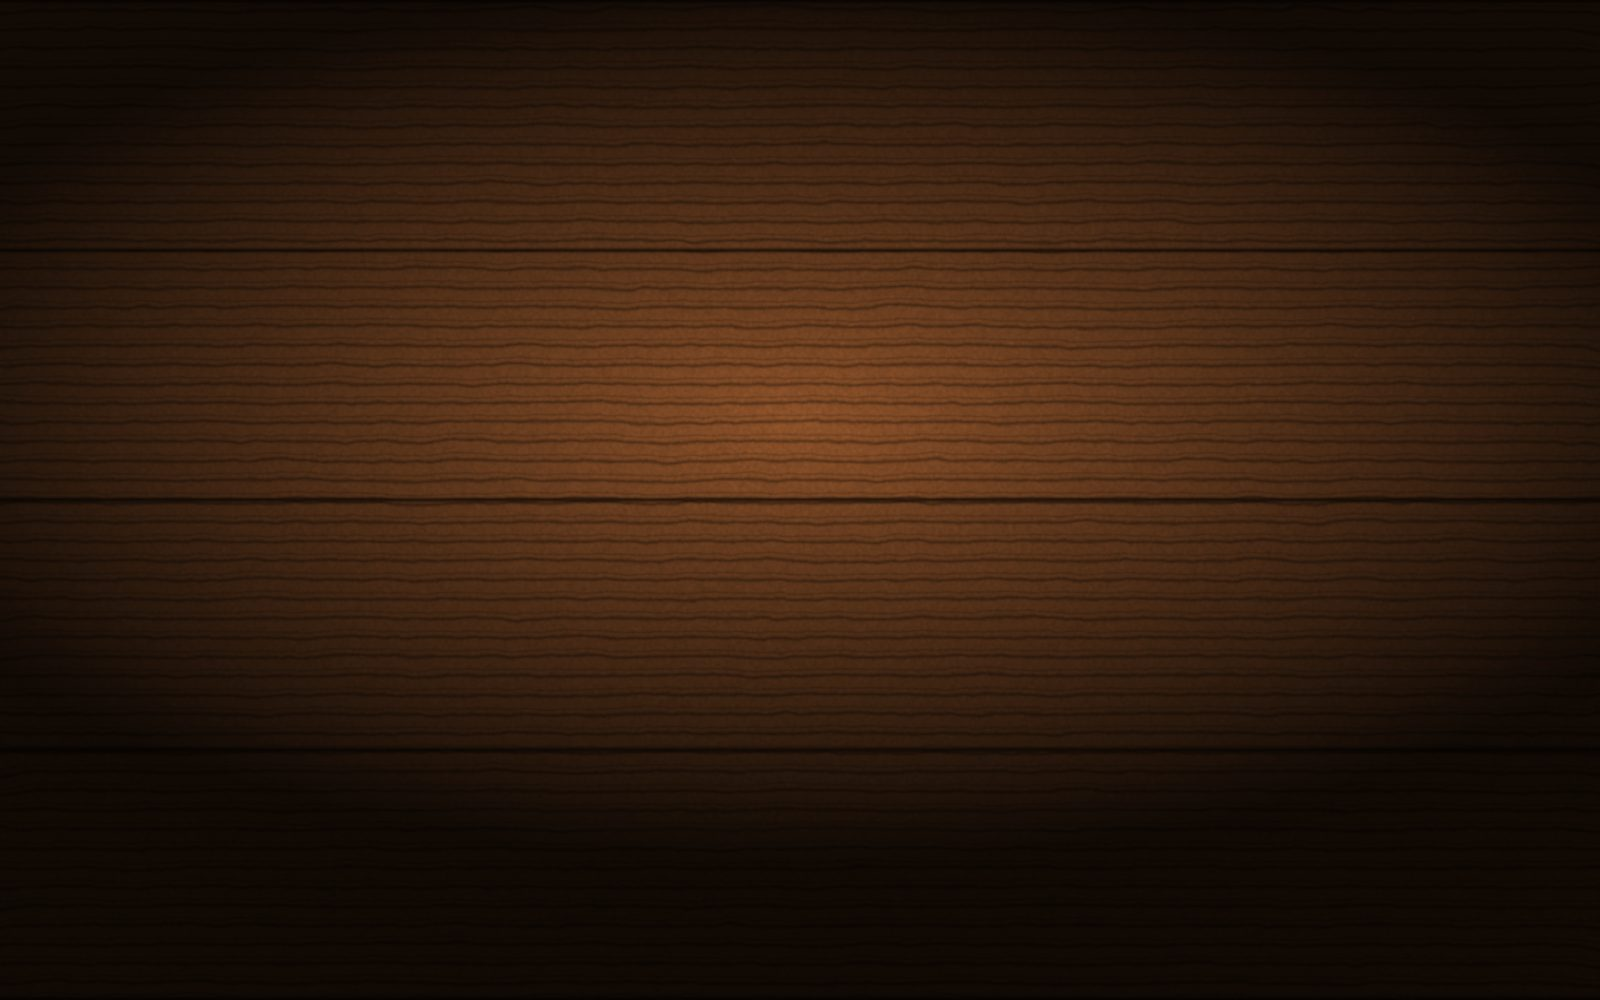
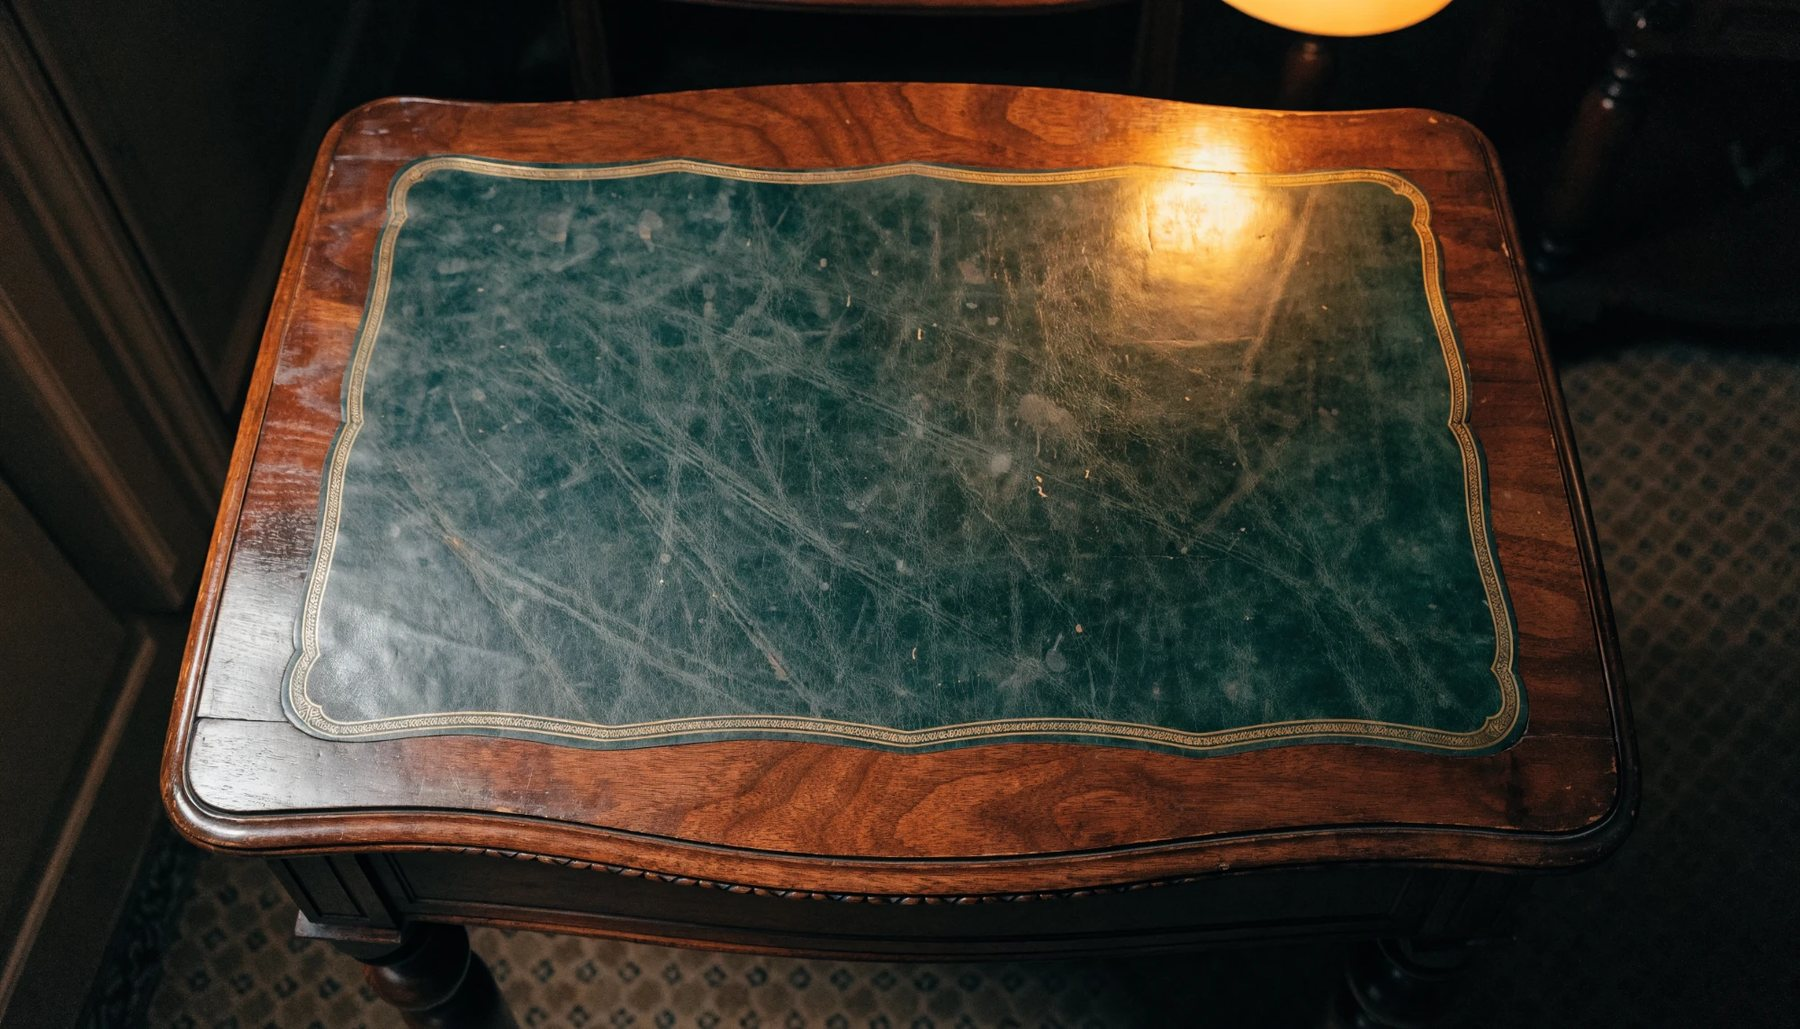
Texturas fotográficas: escritorio, cuero y papel
Reemplazo de las texturas procedurales por las tres fotografías aportadas.

- La portada pasa a ser una mesa antigua con carpeta de cuero verde y filete
  dorado, con la lámpara entrando por arriba a la derecha. El libro se apoya
  sobre la carpeta.
- La tapa usa cuero azul real, recortado sin cantos ni costuras y a "cover":
  se ve el grano y el velado del cuero bajo un tinte azul profundo suave.
- El papel se llevó al hueso del manual (#F4EFE6) y se armó como mosaico
  espejado de 1024 px, así el grano repite sin costura ni simetría visible.
- Ajustes de escena: el brillo de la tapa se corrió para coincidir con la
  lámpara de la foto, el libro se achicó para entrar en la carpeta y las
  llamadas al pie llevan sombra para leerse sobre la madera.

Claude-Session: https://claude.ai/code/session_016RdKxc9NMecg14L2oBtH98

diff --git a/assets/css/main.css b/assets/css/main.css
@@ -150,16 +150,16 @@ p { margin: 0 0 1.05em; max-width: 66ch; }
   overflow: hidden;
   display: grid;
   place-items: center;
-  padding: 74px 22px 112px;
+  padding: 66px 22px 176px;
   perspective: 2000px;
   perspective-origin: 50% 42%;
-  background-color: #1a1008;
+  background-color: #17110c;
   background-image:
-    radial-gradient(ellipse 58% 48% at 50% 40%, rgba(255, 214, 150, .14), transparent 70%),
-    radial-gradient(ellipse 96% 92% at 50% 44%, transparent 32%, rgba(0, 0, 0, .72) 100%),
+    radial-gradient(ellipse 52% 44% at 50% 44%, rgba(255, 214, 150, .07), transparent 72%),
+    radial-gradient(ellipse 92% 90% at 50% 46%, transparent 42%, rgba(0, 0, 0, .58) 100%),
     url('../img/texturas/escritorio.jpg');
   background-size: cover, cover, cover;
-  background-position: center, center, center;
+  background-position: center, center, 50% 46%;
   background-repeat: no-repeat;
 }
 
@@ -181,7 +181,7 @@ p { margin: 0 0 1.05em; max-width: 66ch; }
 
 .libro {
   position: relative;
-  width: min(470px, 86vw);
+  width: min(424px, 82vw);
   aspect-ratio: 3 / 4;
   transform-style: preserve-3d;
   transform: rotateX(0deg) rotateY(0deg) rotateZ(0deg);
@@ -225,12 +225,12 @@ p { margin: 0 0 1.05em; max-width: 66ch; }
 .cara-frente {
   background-color: var(--cuero);
   background-image:
-    radial-gradient(ellipse at 30% 22%, rgba(255, 255, 255, .08), transparent 58%),
-    radial-gradient(ellipse at 88% 96%, rgba(212, 168, 90, .1), transparent 46%),
-    linear-gradient(160deg, rgba(22, 36, 90, .82), rgba(15, 26, 64, .72) 62%, rgba(10, 18, 48, .92)),
+    radial-gradient(ellipse at 76% 14%, rgba(255, 236, 200, .1), transparent 54%),
+    radial-gradient(ellipse at 88% 96%, rgba(212, 168, 90, .09), transparent 46%),
+    linear-gradient(160deg, rgba(15, 26, 64, .52), rgba(15, 26, 64, .38) 58%, rgba(8, 14, 38, .74)),
     url('../img/texturas/cuero.jpg');
-  background-size: cover, cover, cover, 190px 190px;
-  background-repeat: no-repeat, no-repeat, no-repeat, repeat;
+  background-size: cover, cover, cover, cover;
+  background-repeat: no-repeat;
   background-position: center;
   box-shadow: inset -14px 0 34px rgba(0, 0, 0, .45), 0 30px 66px rgba(0, 0, 0, .62);
   display: grid;
@@ -298,7 +298,7 @@ p { margin: 0 0 1.05em; max-width: 66ch; }
     repeating-linear-gradient(45deg, rgba(28, 44, 107, .07) 0 2px, transparent 2px 15px),
     repeating-linear-gradient(-45deg, rgba(209, 44, 62, .05) 0 2px, transparent 2px 15px),
     url('../img/texturas/papel.jpg');
-  background-size: auto, auto, 300px 300px;
+  background-size: auto, auto, 460px 460px;
   box-shadow: inset 0 0 60px rgba(138, 126, 104, .5);
 }
 
@@ -315,7 +315,7 @@ p { margin: 0 0 1.05em; max-width: 66ch; }
     radial-gradient(circle at 20% 10%, rgba(138, 126, 104, .09), transparent 45%),
     radial-gradient(circle at 85% 85%, rgba(138, 126, 104, .08), transparent 48%),
     url('../img/texturas/papel.jpg');
-  background-size: cover, cover, 300px 300px;
+  background-size: cover, cover, 520px 520px;
   background-repeat: no-repeat, no-repeat, repeat;
   border-radius: 3px 6px 6px 3px;
   padding: clamp(22px, 4.4vw, 34px) clamp(20px, 4vw, 30px) clamp(18px, 3vw, 26px) clamp(30px, 5vw, 44px);
@@ -379,11 +379,12 @@ p { margin: 0 0 1.05em; max-width: 66ch; }
   position: absolute; left: 0; right: 0; bottom: -86px;
   display: flex; justify-content: center; gap: 18px;
   font-family: var(--mono); font-size: 10.5px; letter-spacing: .2em; text-transform: uppercase;
+  text-shadow: 0 1px 8px rgba(0, 0, 0, .95), 0 0 3px rgba(0, 0, 0, .8);
 }
 .pie-tapa button, .pie-tapa a {
   background: none; border: 0; padding: 6px 4px; cursor: pointer;
   font: inherit; letter-spacing: inherit; text-transform: inherit;
-  color: rgba(244, 239, 230, .62); text-decoration: none;
+  color: rgba(244, 239, 230, .82); text-decoration: none;
   border-bottom: 1px solid transparent;
 }
 .pie-tapa button:hover, .pie-tapa a:hover { color: var(--oro); border-bottom-color: var(--oro); }
@@ -392,12 +393,13 @@ p { margin: 0 0 1.05em; max-width: 66ch; }
   position: absolute; left: 0; right: 0; bottom: -54px;
   text-align: center;
   font-family: var(--mono); font-size: 10px; letter-spacing: .22em; text-transform: uppercase;
-  color: rgba(212, 168, 90, .72);
+  color: var(--oro);
+  text-shadow: 0 1px 8px rgba(0, 0, 0, .95), 0 0 3px rgba(0, 0, 0, .8);
   animation: latir 3.4s ease-in-out infinite;
 }
 .mesa:not(.cerrado) .indicacion,
 .mesa:not(.cerrado) .pie-tapa { display: none; }
-@keyframes latir { 0%, 100% { opacity: .45 } 50% { opacity: 1 } }
+@keyframes latir { 0%, 100% { opacity: .58 } 50% { opacity: 1 } }
 
 /* ============================================================
    LAS HOJAS — páginas interiores
@@ -452,7 +454,7 @@ p { margin: 0 0 1.05em; max-width: 66ch; }
     radial-gradient(circle at 12% 6%, rgba(138, 126, 104, .07), transparent 40%),
     radial-gradient(circle at 88% 92%, rgba(138, 126, 104, .06), transparent 44%),
     url('../img/texturas/papel.jpg');
-  background-size: cover, cover, 300px 300px;
+  background-size: cover, cover, 520px 520px;
   background-repeat: no-repeat, no-repeat, repeat;
   background-attachment: scroll;
   padding-left: var(--encuadernacion);

diff --git a/README.md b/README.md
@@ -28,7 +28,7 @@ contacto.html       Capítulo VI — contacto, prensa y uso de marca
 assets/css/main.css Hoja de estilos única
 assets/js/main.js   Apertura del libro, menú, partidos, tabla, plantel y noticias
 assets/img/         Escudo, favicon, imagen para redes y fotos
-assets/img/texturas Papel, cuero y escritorio (generados; papel y cuero en mosaico)
+assets/img/texturas Escritorio, cuero de la tapa y papel de las hojas
 data/*.json         Datos editables
 worker/api.js       Worker de Cloudflare (todavía sin publicar)
 build.py            Regenera las siete páginas desde plantillas compartidas
@@ -97,12 +97,20 @@ La tapa se abre con `transform: rotateY()`. Detalles que conviene no romper:
 - **El índice son enlaces reales**, no botones de JavaScript: funcionan con
   teclado, con el buscador y con el botón "atrás".
 
-## Cambiar el escritorio de la portada
+## Las texturas
 
-El fondo de la portada es `assets/img/texturas/escritorio.jpg`, generado por
-código. Para poner una foto real de una mesa o un escritorio antiguo basta con
-reemplazar ese archivo, sin tocar el CSS. Conviene que sea apaisada, oscura en
-los bordes y con la zona central algo más clara, porque el libro se apoya ahí.
+Tres fotografías sostienen la escena. Se cambian reemplazando el archivo, sin
+tocar el CSS:
+
+| Archivo | Dónde se usa | Cómo conviene que sea |
+| --- | --- | --- |
+| `escritorio.jpg` | Fondo de la portada | Apaisada, bordes oscuros y centro más claro: el libro se apoya ahí |
+| `cuero.jpg` | Tapa del libro | Grano parejo, sin costuras ni cantos; se usa recortada a `cover` |
+| `papel.jpg` | Hojas y guarda | **Tiene que repetir sin costura**: se repite en mosaico de 520 px |
+
+El papel del repositorio es un mosaico espejado y llevado al hueso del manual
+(`#F4EFE6`), para que la trama no cante y el color siga siendo el de la marca.
+Si se reemplaza por una foto cruda, el mosaico se va a notar.
 
 ## Reglas de marca que el sitio respeta
 
